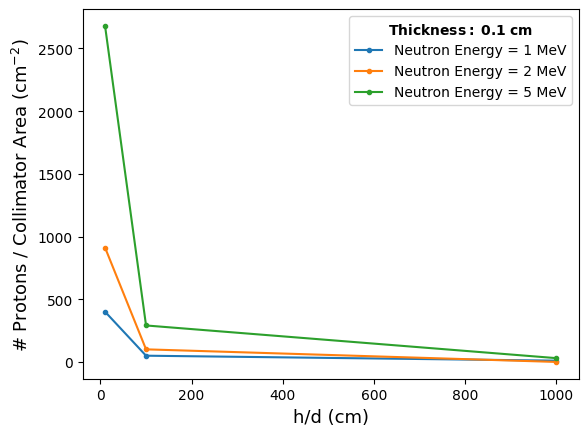
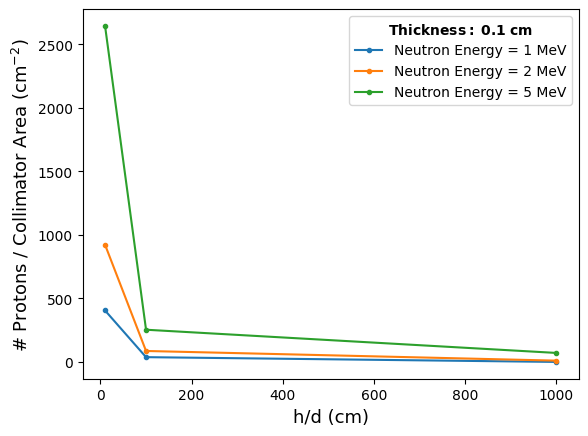
Update efficiencies

diff --git a/plot_efficiency.py b/plot_efficiency.py
@@ -3,7 +3,7 @@ import re
 import numpy as np
 import matplotlib.pyplot as plt
 
-thickness = 1e-1
+thickness = 1e-4
 
 files = os.listdir("result_arrays/")
 h=10 #cm
